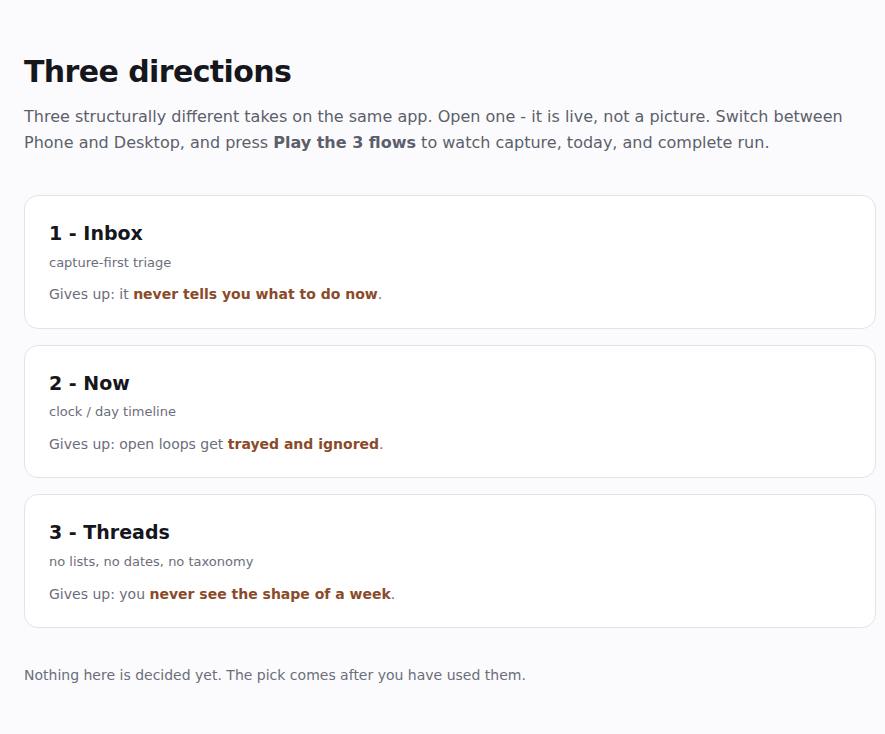
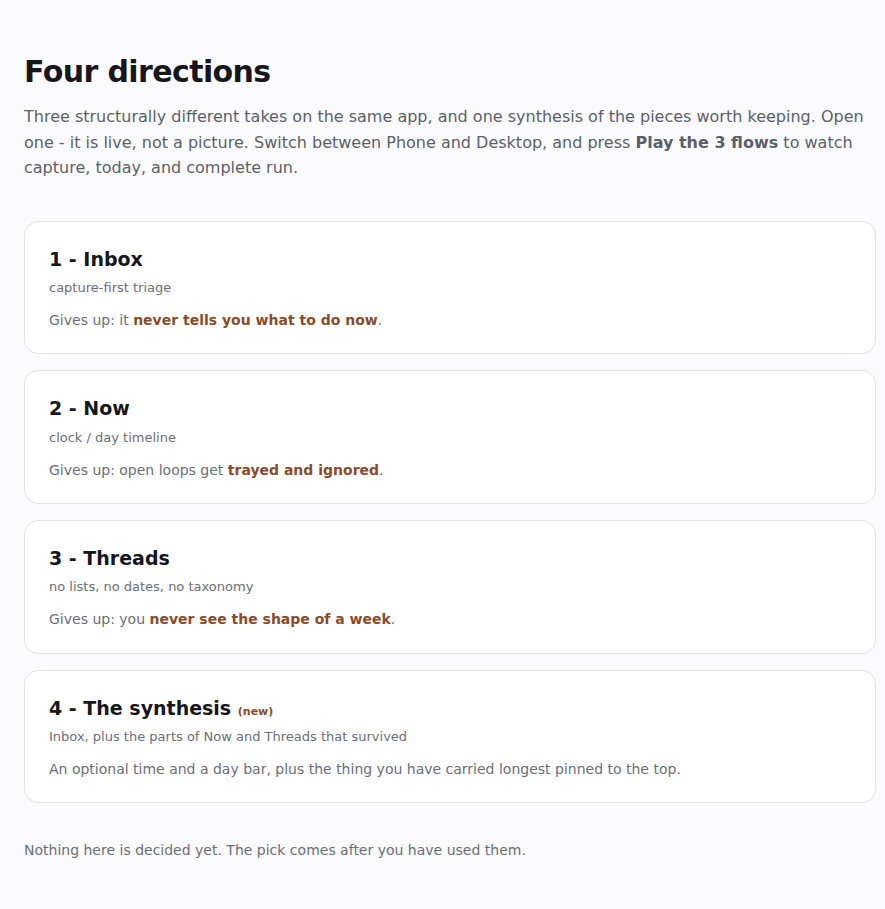
Show a check on completed cards; make the completion burst optional
The owner spotted that completed cards rendered an empty circle that
read as an unselected radio button. There was no CSS rule for the done
state of .check at all, so color stayed transparent and the checkmark
was invisible by construction. Verified fixed in both directions that
use a circle, read back as computed style on a done card: color white,
background rgb(15,157,88), with open cards still transparent.

Inbox additionally had dead CSS - a .check.on rule that looked like a
done state but that no code path ever applied.

Now and Threads were never affected: Now completes via the block dot and
Threads stamps SETTLED, neither using a circle.

The completion burst gains an ON/OFF toggle in both directions that have
one, and honours prefers-reduced-motion in CSS and by not creating the
particles. The owner can settle in thirty seconds of her own use whether
she misses it, which is worth more than a designer being persuasive.

Re-shot the launcher screenshot, which had gone stale when it gained the
fourth direction.

diff --git a/design/fourth/index.html b/design/fourth/index.html
@@ -86,6 +86,8 @@
          transition:transform .15s,background .15s,border-color .15s;}
   .check::before{content:"";position:absolute;inset:-9px;border-radius:50%;}
   .check svg{width:13px;height:13px;}
+  /* a finished task must LOOK finished — the empty circle read as an unselected radio */
+  .card.done .check{background:var(--done); border-color:var(--done); color:#fff;}
   .card.done .text{color:#9aa1ae;text-decoration:line-through;}
   .triage{display:flex;gap:6px;margin-top:10px;padding-top:10px;border-top:1px dashed var(--line);}
   .triage button{flex:1;padding:7px 0;border-radius:8px;background:#f5f6f9;font-size:11.5px;font-weight:600;color:#4c5361;}
@@ -229,6 +231,14 @@
     .chrome{padding-top:16px;}
     .chrome .thesis, .grafts, .hint{display:none;}
   }
+  .toggle{padding:9px 14px; border-radius:9px; background:#fff; border:1px solid var(--line);
+           font-size:13px; font-weight:600; color:#4c5361;}
+  .toggle b{color:var(--ink);}
+  .toggle[aria-pressed="false"]{background:#f1f3f7; color:#8b91a0;}
+  /* honour the OS setting: motion off means no particles, instant state change */
+  @media (prefers-reduced-motion: reduce){
+    *{animation-duration:.001ms !important; transition-duration:.001ms !important;}
+  }
 </style>
 </head>
 <body data-view="both">
@@ -263,6 +273,7 @@
       <button data-view="desktop" aria-pressed="false">Desktop</button>
       <button data-view="both" aria-pressed="true">Both</button>
     </div>
+    <button class="toggle" id="celebrate" data-act="celebrate" aria-pressed="true">Completion effect: <b>ON</b></button>
     <button class="play" id="play">▶ Play the 3 flows</button>
   </div>
   <p class="hint">Times are entirely optional and off by default — filing stays four taps and no clock. Type a
@@ -314,7 +325,7 @@ const store = {
     { id:18, text:"Read the two articles Sam sent",              when:"someday",time:null, days:12, lines:[], done:false, at:"yesterday" },
     { id:19, text:"Finish the expense form for the trip",        when:"week",   time:null, days:0,  lines:[], done:false, at:"Sun" }
   ],
-  sheetOpen:false, draft:"", quick:undefined, toast:"", confettiAt:null,
+  sheetOpen:false, draft:"", quick:undefined, toast:"", confettiAt:null, celebrate:true,
   ctxEdit:null, ctxDraft:"", timeEdit:null, timeDraft:""
 };
 
@@ -420,8 +431,9 @@ function complete(id, host){
   if (card){ card.classList.add("leaving"); burst(host, card, id); }
   sleep(280).then(() => { it.done = true; render(); toast(it.text.length > 26 ? it.text.slice(0,24)+"…" : it.text); });
 }
+const reduceMotion = !!(window.matchMedia && window.matchMedia("(prefers-reduced-motion: reduce)").matches);
 function burst(host, card, id){
-  if (!card || store.confettiAt) return;
+  if (!card || store.confettiAt || !store.celebrate || reduceMotion) return;
   const r = card.getBoundingClientRect(), h = host.getBoundingClientRect();
   const cx = r.left - h.left + 30, cy = r.top - h.top + 24;
   const box = host.querySelector(".confetti") || (() => {
@@ -710,6 +722,11 @@ document.addEventListener("click", e => {
   if (!btn) return;
   const act = btn.dataset.act, id = +btn.dataset.id, host = btn.closest(".frame");
 
+  if (act === "celebrate"){ store.celebrate = !store.celebrate;
+      const t = document.getElementById("celebrate");
+      t.setAttribute("aria-pressed", String(store.celebrate));
+      t.innerHTML = "Completion effect: <b>" + (store.celebrate ? "ON" : "OFF") + "</b>";
+      toast(store.celebrate ? "Completion effect on" : "Completion effect off"); return; }
   if (act === "open"){ store.sheetOpen = true; store.draft = ""; store.quick = undefined; renderPhone();
                        setTimeout(() => { const ta = document.getElementById("ta"); if (ta) ta.focus(); }, 60); }
   if (act === "close"){ store.sheetOpen = false; renderPhone(); }

diff --git a/design/inbox/index.html b/design/inbox/index.html
@@ -88,6 +88,9 @@
   .check::before{content:""; position:absolute; inset:-9px; border-radius:50%;}
   .check:active{transform:scale(.86);}
   .check.on{background:var(--done); border-color:var(--done); color:#fff;}
+  /* .check.on was never applied by any code path, so a completed task showed an empty
+     circle. Bind the done state to the card instead, which is what actually changes. */
+  .card.done .check{background:var(--done); border-color:var(--done); color:#fff;}
   .check svg{width:13px; height:13px;}
   .card.done .text{color:#9aa1ae; text-decoration:line-through;}
   .triage{display:flex; gap:6px; margin-top:10px; padding-top:10px; border-top:1px dashed var(--line);}
@@ -197,6 +200,14 @@
     .chrome{padding-top:16px;}
     .chrome .thesis, .grafts, .hint{display:none;}
   }
+  .toggle{padding:9px 14px; border-radius:9px; background:#fff; border:1px solid var(--line);
+           font-size:13px; font-weight:600; color:#4c5361;}
+  .toggle b{color:var(--ink);}
+  .toggle[aria-pressed="false"]{background:#f1f3f7; color:#8b91a0;}
+  /* honour the OS setting: motion off means no particles, instant state change */
+  @media (prefers-reduced-motion: reduce){
+    *{animation-duration:.001ms !important; transition-duration:.001ms !important;}
+  }
 </style>
 </head>
 <body data-view="both">
@@ -213,6 +224,7 @@
       <button data-view="desktop" aria-pressed="false">Desktop</button>
       <button data-view="both" aria-pressed="true">Both</button>
     </div>
+    <button class="toggle" id="celebrate" data-act="celebrate" aria-pressed="true">Completion effect: <b>ON</b></button>
     <button class="play" id="play">▶ Play the 3 flows</button>
   </div>
   <p class="hint">Every screen is live and clickable. The <b>Both</b> view runs the same state on a phone and a
@@ -265,6 +277,7 @@ const store = {
   quick: undefined,
   toast: "",
   confettiAt: null,
+  celebrate: true,
   ctxEdit: null,
   ctxDraft: ""
 };
@@ -323,8 +336,9 @@ function complete(id, host){
   }
   sleep(280).then(() => { it.done = true; render(); toast(it.text.length > 26 ? it.text.slice(0,24)+"…" : it.text); });
 }
+const reduceMotion = !!(window.matchMedia && window.matchMedia("(prefers-reduced-motion: reduce)").matches);
 function burst(host, card, id){
-  if (!card || store.confettiAt) return;
+  if (!card || store.confettiAt || !store.celebrate || reduceMotion) return;
   const r = card.getBoundingClientRect(), h = host.getBoundingClientRect();
   const cx = r.left - h.left + 30, cy = r.top - h.top + 24;
   const box = host.querySelector(".confetti") || (() => {
@@ -537,6 +551,11 @@ document.addEventListener("click", e => {
   if (!btn) return;
   const act = btn.dataset.act, id = +btn.dataset.id;
   const host = btn.closest(".frame");
+  if (act === "celebrate"){ store.celebrate = !store.celebrate;
+      const t = document.getElementById("celebrate");
+      t.setAttribute("aria-pressed", String(store.celebrate));
+      t.innerHTML = "Completion effect: <b>" + (store.celebrate ? "ON" : "OFF") + "</b>";
+      toast(store.celebrate ? "Completion effect on" : "Completion effect off"); return; }
   if (act === "open"){ store.sheetOpen = true; store.draft = ""; store.quick = undefined; renderPhone();
                        setTimeout(() => { const ta = document.getElementById("ta"); if (ta) ta.focus(); }, 60); }
   if (act === "close"){ store.sheetOpen = false; renderPhone(); }
